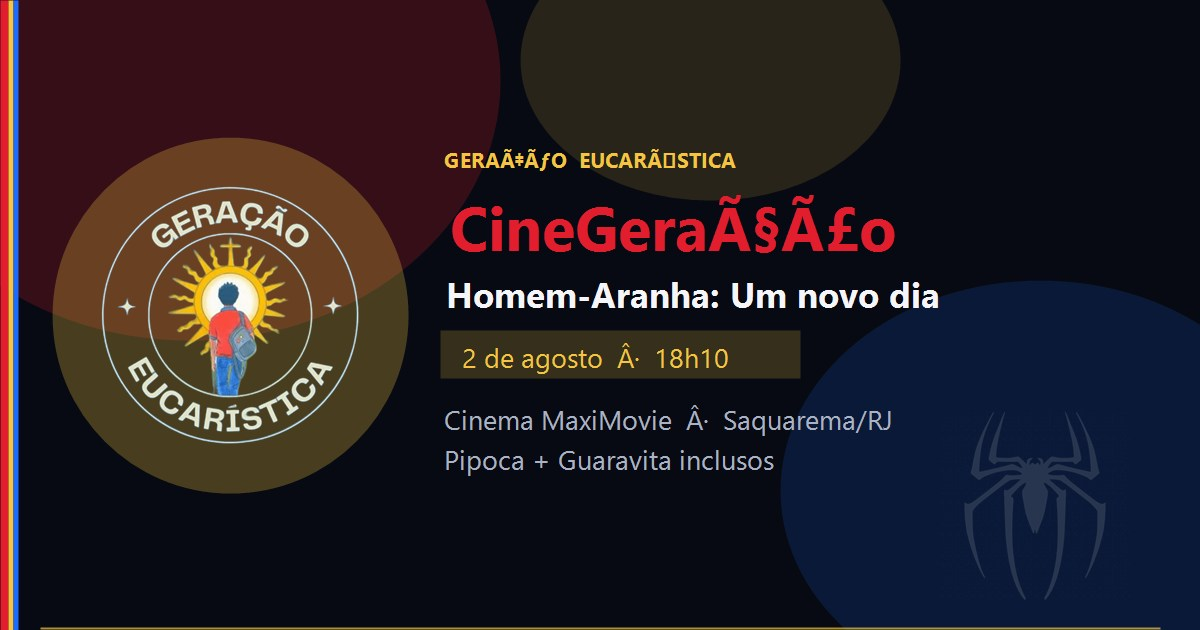
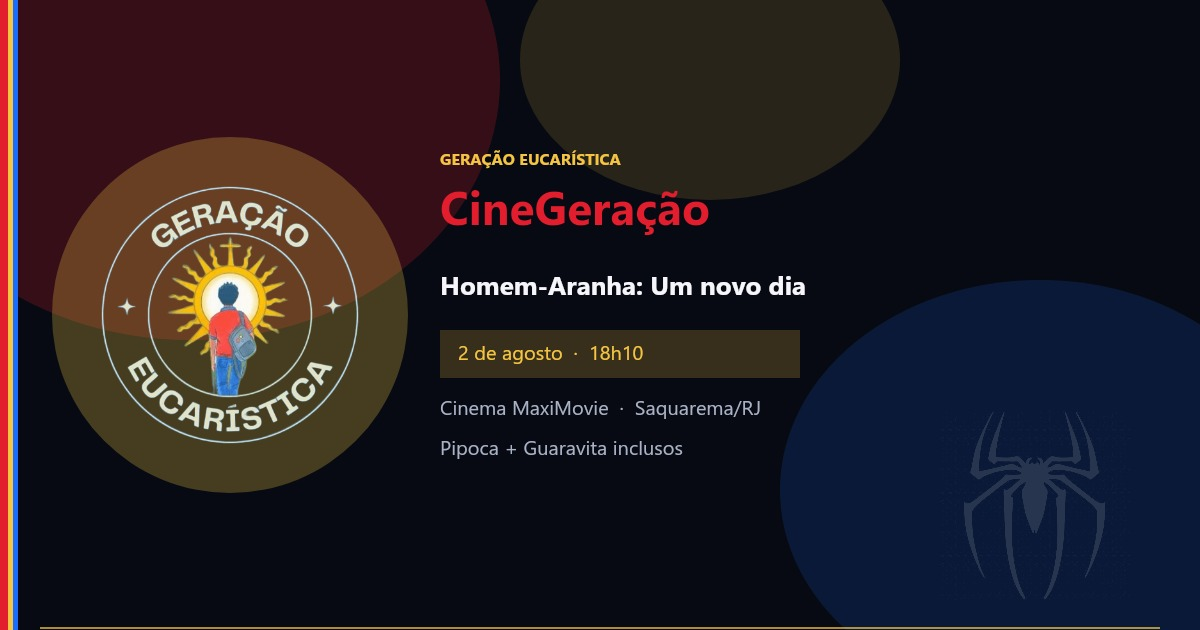
fix: acentos corretos na imagem Open Graph (CineGeração)
Usa script Node com UTF-8; atualiza cache og-spiderman para v=6.

diff --git a/backend/scripts/make-og-images.js b/backend/scripts/make-og-images.js
@@ -1,0 +1,119 @@
+/**
+ * Gera imagens Open Graph (preview WhatsApp) com UTF-8 correto.
+ *
+ *   node scripts/make-og-images.js
+ */
+const fs = require("fs");
+const path = require("path");
+const { createCanvas, loadImage } = require("@napi-rs/canvas");
+
+const root = path.join(__dirname, "..", "..", "frontend");
+const imageDir = path.join(root, "public", "image");
+
+async function drawBase(ctx, w, h) {
+  ctx.fillStyle = "rgb(7, 10, 18)";
+  ctx.fillRect(0, 0, w, h);
+
+  ctx.fillStyle = "rgba(225, 29, 46, 0.22)";
+  ctx.beginPath();
+  ctx.ellipse(-120 + 310, -180 + 260, 310, 260, 0, 0, Math.PI * 2);
+  ctx.fill();
+
+  ctx.fillStyle = "rgba(26, 108, 255, 0.16)";
+  ctx.beginPath();
+  ctx.ellipse(780 + 260, 280 + 210, 260, 210, 0, 0, Math.PI * 2);
+  ctx.fill();
+
+  ctx.fillStyle = "rgba(245, 197, 66, 0.14)";
+  ctx.beginPath();
+  ctx.ellipse(520 + 190, -80 + 140, 190, 140, 0, 0, Math.PI * 2);
+  ctx.fill();
+
+  ctx.fillStyle = "rgb(225, 29, 46)";
+  ctx.fillRect(0, 0, 8, h);
+  ctx.fillStyle = "rgb(245, 197, 66)";
+  ctx.fillRect(8, 0, 5, h);
+  ctx.fillStyle = "rgb(26, 108, 255)";
+  ctx.fillRect(13, 0, 5, h);
+  ctx.fillStyle = "rgba(245, 197, 66, 0.7)";
+  ctx.fillRect(40, h - 3, w - 80, 2);
+
+  const logo = await loadImage(path.join(imageDir, "logo.png"));
+  ctx.fillStyle = "rgba(245, 197, 66, 0.27)";
+  ctx.beginPath();
+  ctx.ellipse(52 + 178, 137 + 178, 178, 178, 0, 0, Math.PI * 2);
+  ctx.fill();
+  ctx.drawImage(logo, 70, 155, 320, 320);
+
+  const spider = await loadImage(path.join(imageDir, "aranha.png"));
+  ctx.globalAlpha = 0.12;
+  ctx.drawImage(spider, 940, 410, 190, 190);
+  ctx.globalAlpha = 1;
+}
+
+async function makeOg(filename, drawText) {
+  const w = 1200;
+  const h = 630;
+  const canvas = createCanvas(w, h);
+  const ctx = canvas.getContext("2d");
+  await drawBase(ctx, w, h);
+  drawText(ctx);
+  const out = path.join(imageDir, filename);
+  fs.writeFileSync(out, canvas.toBuffer("image/jpeg", { quality: 0.9 }));
+  console.log(`[make-og] wrote ${out}`);
+}
+
+async function main() {
+  await makeOg("og-spiderman.jpg", (ctx) => {
+    const tx = 440;
+    ctx.fillStyle = "rgb(245, 197, 66)";
+    ctx.font = "bold 16px Segoe UI, Arial, sans-serif";
+    ctx.fillText("GERAÇÃO EUCARÍSTICA", tx, 165);
+
+    ctx.fillStyle = "rgb(225, 29, 46)";
+    ctx.font = "bold 46px Segoe UI, Arial, sans-serif";
+    ctx.fillText("CineGeração", tx, 225);
+
+    ctx.fillStyle = "rgb(245, 245, 250)";
+    ctx.font = "bold 26px Segoe UI, Arial, sans-serif";
+    ctx.fillText("Homem-Aranha: Um novo dia", tx, 295);
+
+    ctx.fillStyle = "rgba(245, 197, 66, 0.2)";
+    ctx.fillRect(tx, 330, 360, 48);
+    ctx.fillStyle = "rgb(245, 197, 66)";
+    ctx.font = "20px Segoe UI, Arial, sans-serif";
+    ctx.fillText("2 de agosto  ·  18h10", tx + 18, 360);
+
+    ctx.fillStyle = "rgb(170, 178, 198)";
+    ctx.fillText("Cinema MaxiMovie  ·  Saquarema/RJ", tx, 415);
+    ctx.fillText("Pipoca + Guaravita inclusos", tx, 455);
+  });
+
+  await makeOg("og-admin.jpg", (ctx) => {
+    const tx = 440;
+    ctx.fillStyle = "rgb(225, 29, 46)";
+    ctx.fillRect(tx, 160, 150, 42);
+    ctx.fillStyle = "rgb(245, 245, 250)";
+    ctx.font = "bold 16px Segoe UI, Arial, sans-serif";
+    ctx.fillText("ADMIN", tx + 36, 188);
+
+    ctx.font = "bold 46px Segoe UI, Arial, sans-serif";
+    ctx.fillText("CineGeração", tx, 260);
+
+    ctx.fillStyle = "rgb(245, 197, 66)";
+    ctx.font = "22px Segoe UI, Arial, sans-serif";
+    ctx.fillText("Painel da equipe", tx, 320);
+
+    ctx.fillStyle = "rgb(170, 178, 198)";
+    ctx.fillText("Login · chamada · comprovantes · PIX", tx, 375);
+
+    ctx.fillStyle = "rgb(245, 197, 66)";
+    ctx.font = "bold 16px Segoe UI, Arial, sans-serif";
+    ctx.fillText("Geração Eucarística", tx, 445);
+  });
+}
+
+main().catch((err) => {
+  console.error("[make-og] Erro:", err.message || err);
+  process.exit(1);
+});

diff --git a/frontend/index.html b/frontend/index.html
@@ -20,20 +20,20 @@
       property="og:description"
       content="Missão CineGeração: Homem-Aranha: Um novo dia · 2 de agosto · Cinema MaxiMovie, Saquarema. Pipoca + Guaravita. Inscreva-se na teia!"
     />
-    <meta property="og:image" content="https://geucaristica.com.br/image/og-spiderman.jpg?v=5" />
-    <meta property="og:image:secure_url" content="https://geucaristica.com.br/image/og-spiderman.jpg?v=5" />
+    <meta property="og:image" content="https://geucaristica.com.br/image/og-spiderman.jpg?v=6" />
+    <meta property="og:image:secure_url" content="https://geucaristica.com.br/image/og-spiderman.jpg?v=6" />
     <meta property="og:image:type" content="image/jpeg" />
     <meta property="og:image:width" content="1200" />
     <meta property="og:image:height" content="630" />
     <meta property="og:image:alt" content="CineGeração – Homem-Aranha: Um novo dia" />
-    <link rel="image_src" href="https://geucaristica.com.br/image/og-spiderman.jpg?v=5" />
+    <link rel="image_src" href="https://geucaristica.com.br/image/og-spiderman.jpg?v=6" />
     <meta name="twitter:card" content="summary_large_image" />
     <meta name="twitter:title" content="🕷 CineGeração – Homem-Aranha: Um novo dia · 2 de agosto" />
     <meta
       name="twitter:description"
       content="Missão CineGeração: Homem-Aranha: Um novo dia · 2 de agosto · Cinema MaxiMovie, Saquarema."
     />
-    <meta name="twitter:image" content="https://geucaristica.com.br/image/og-spiderman.jpg?v=5" />
+    <meta name="twitter:image" content="https://geucaristica.com.br/image/og-spiderman.jpg?v=6" />
     <script>
       (function () {
         try {
